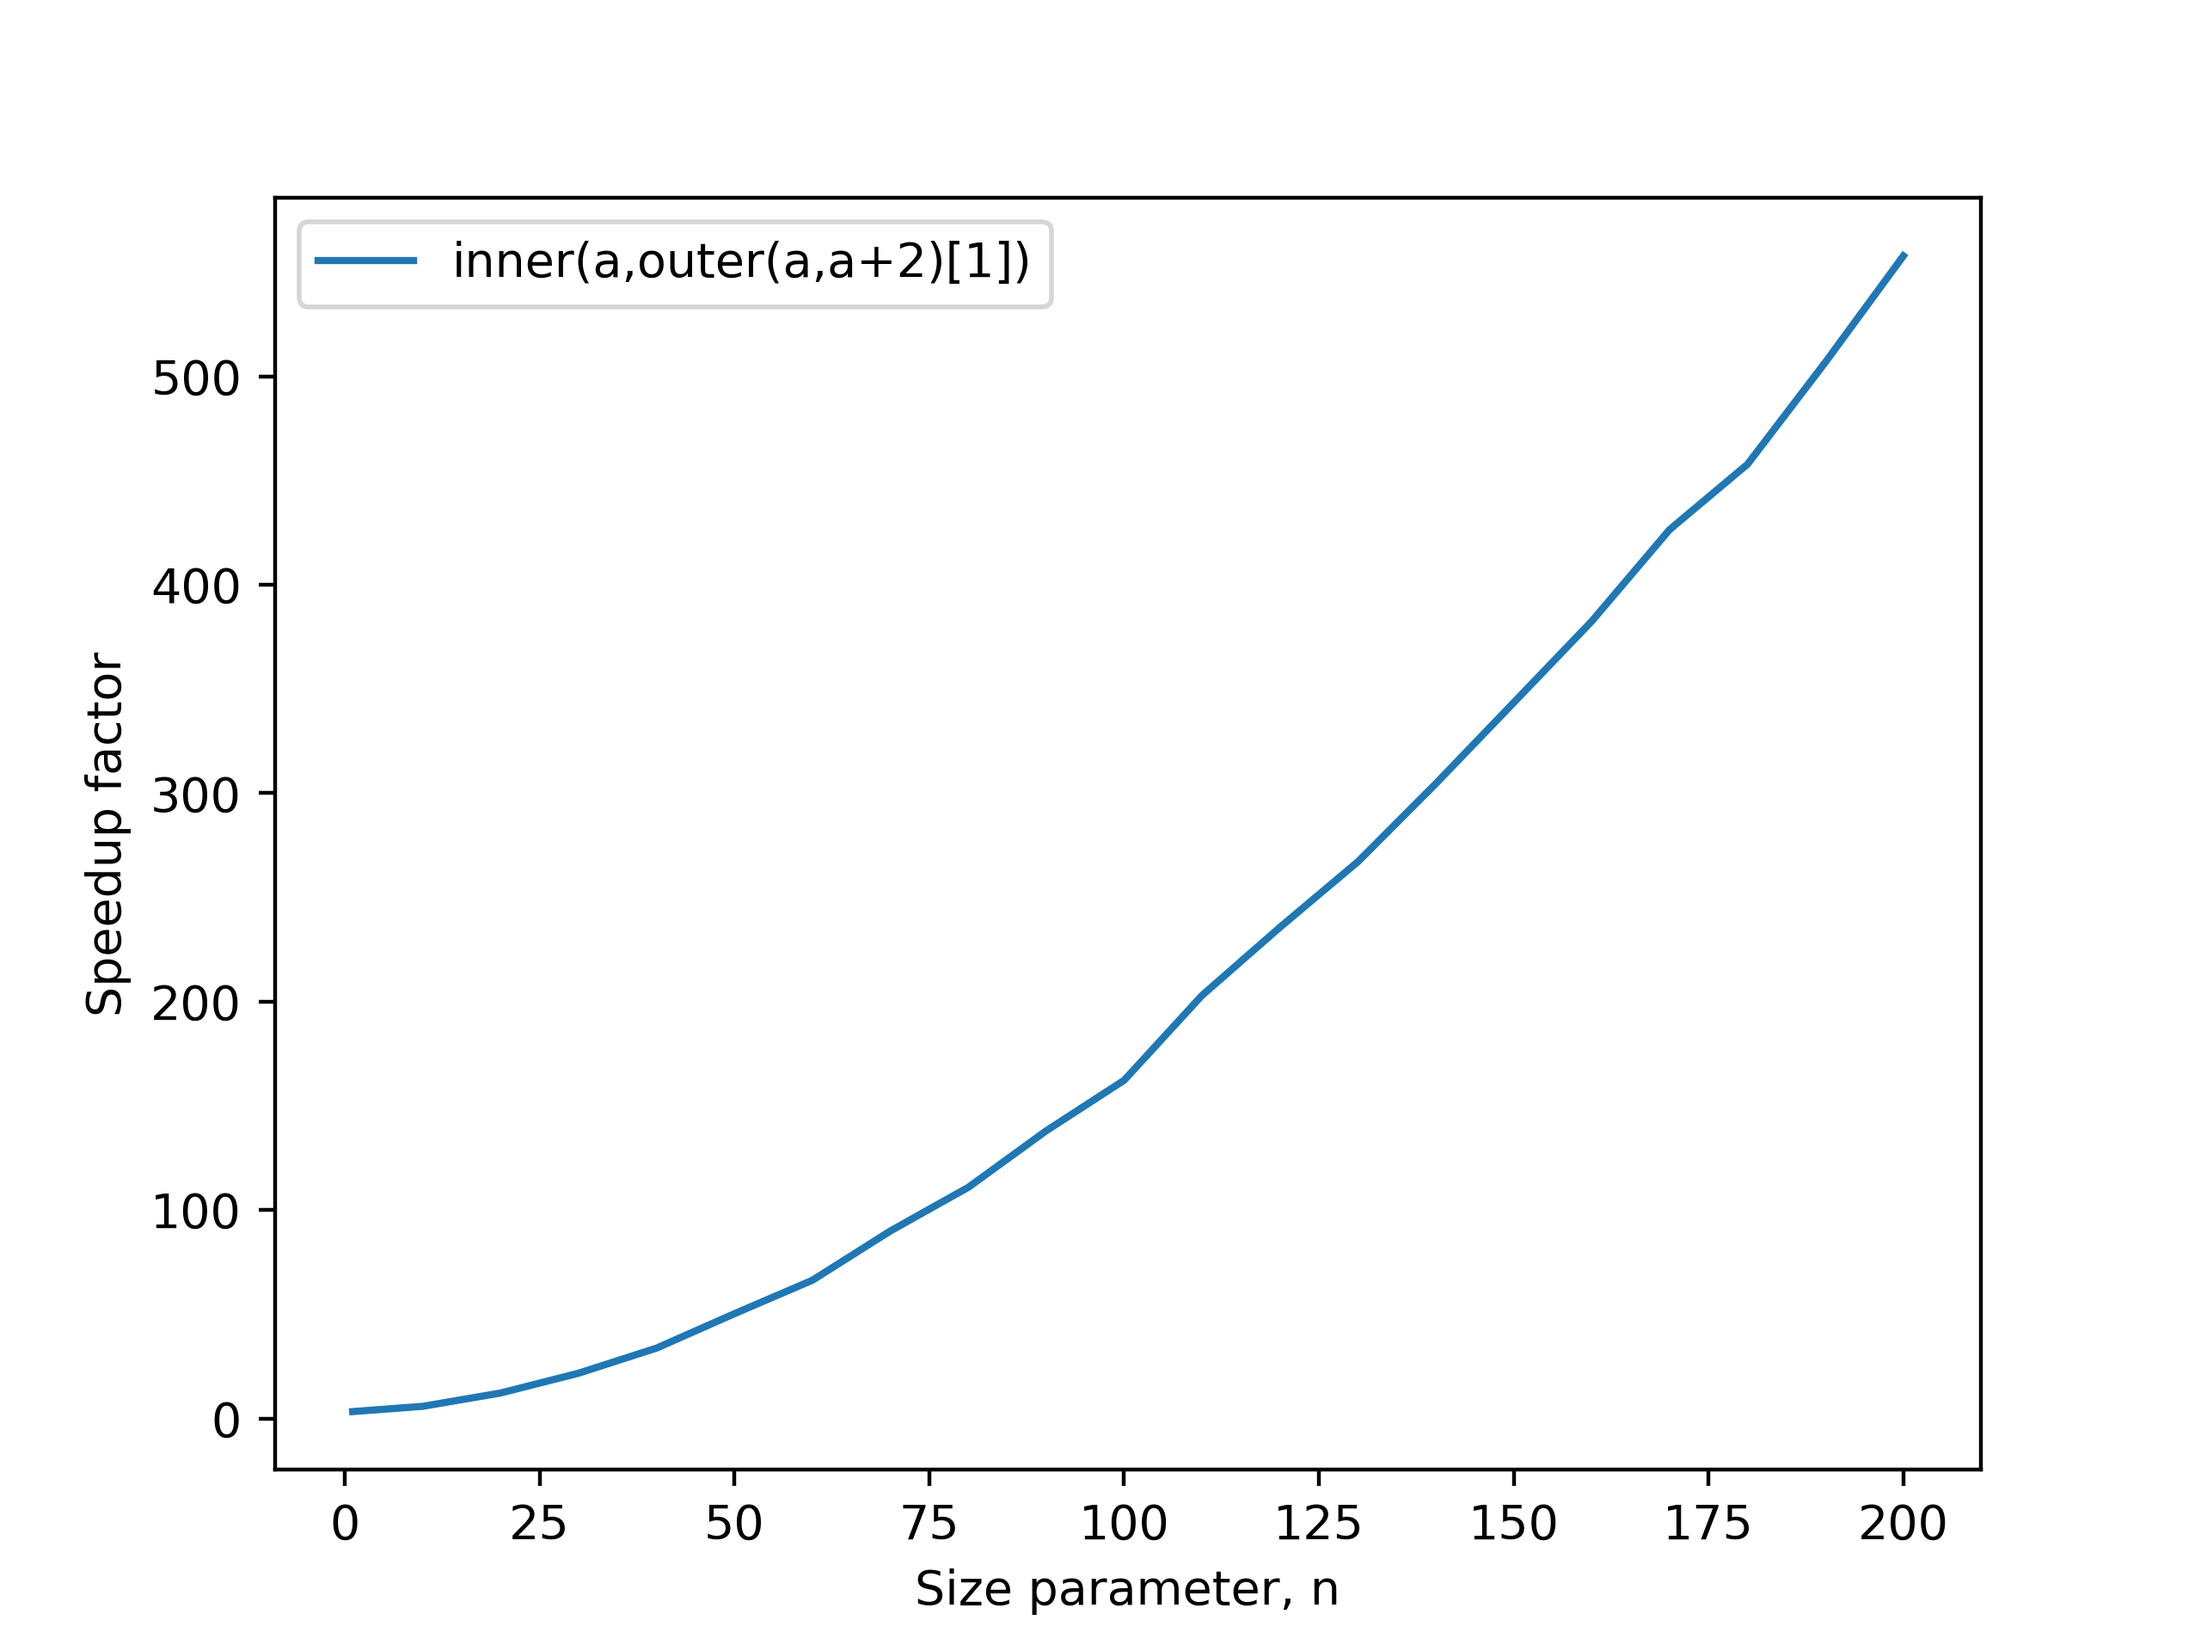
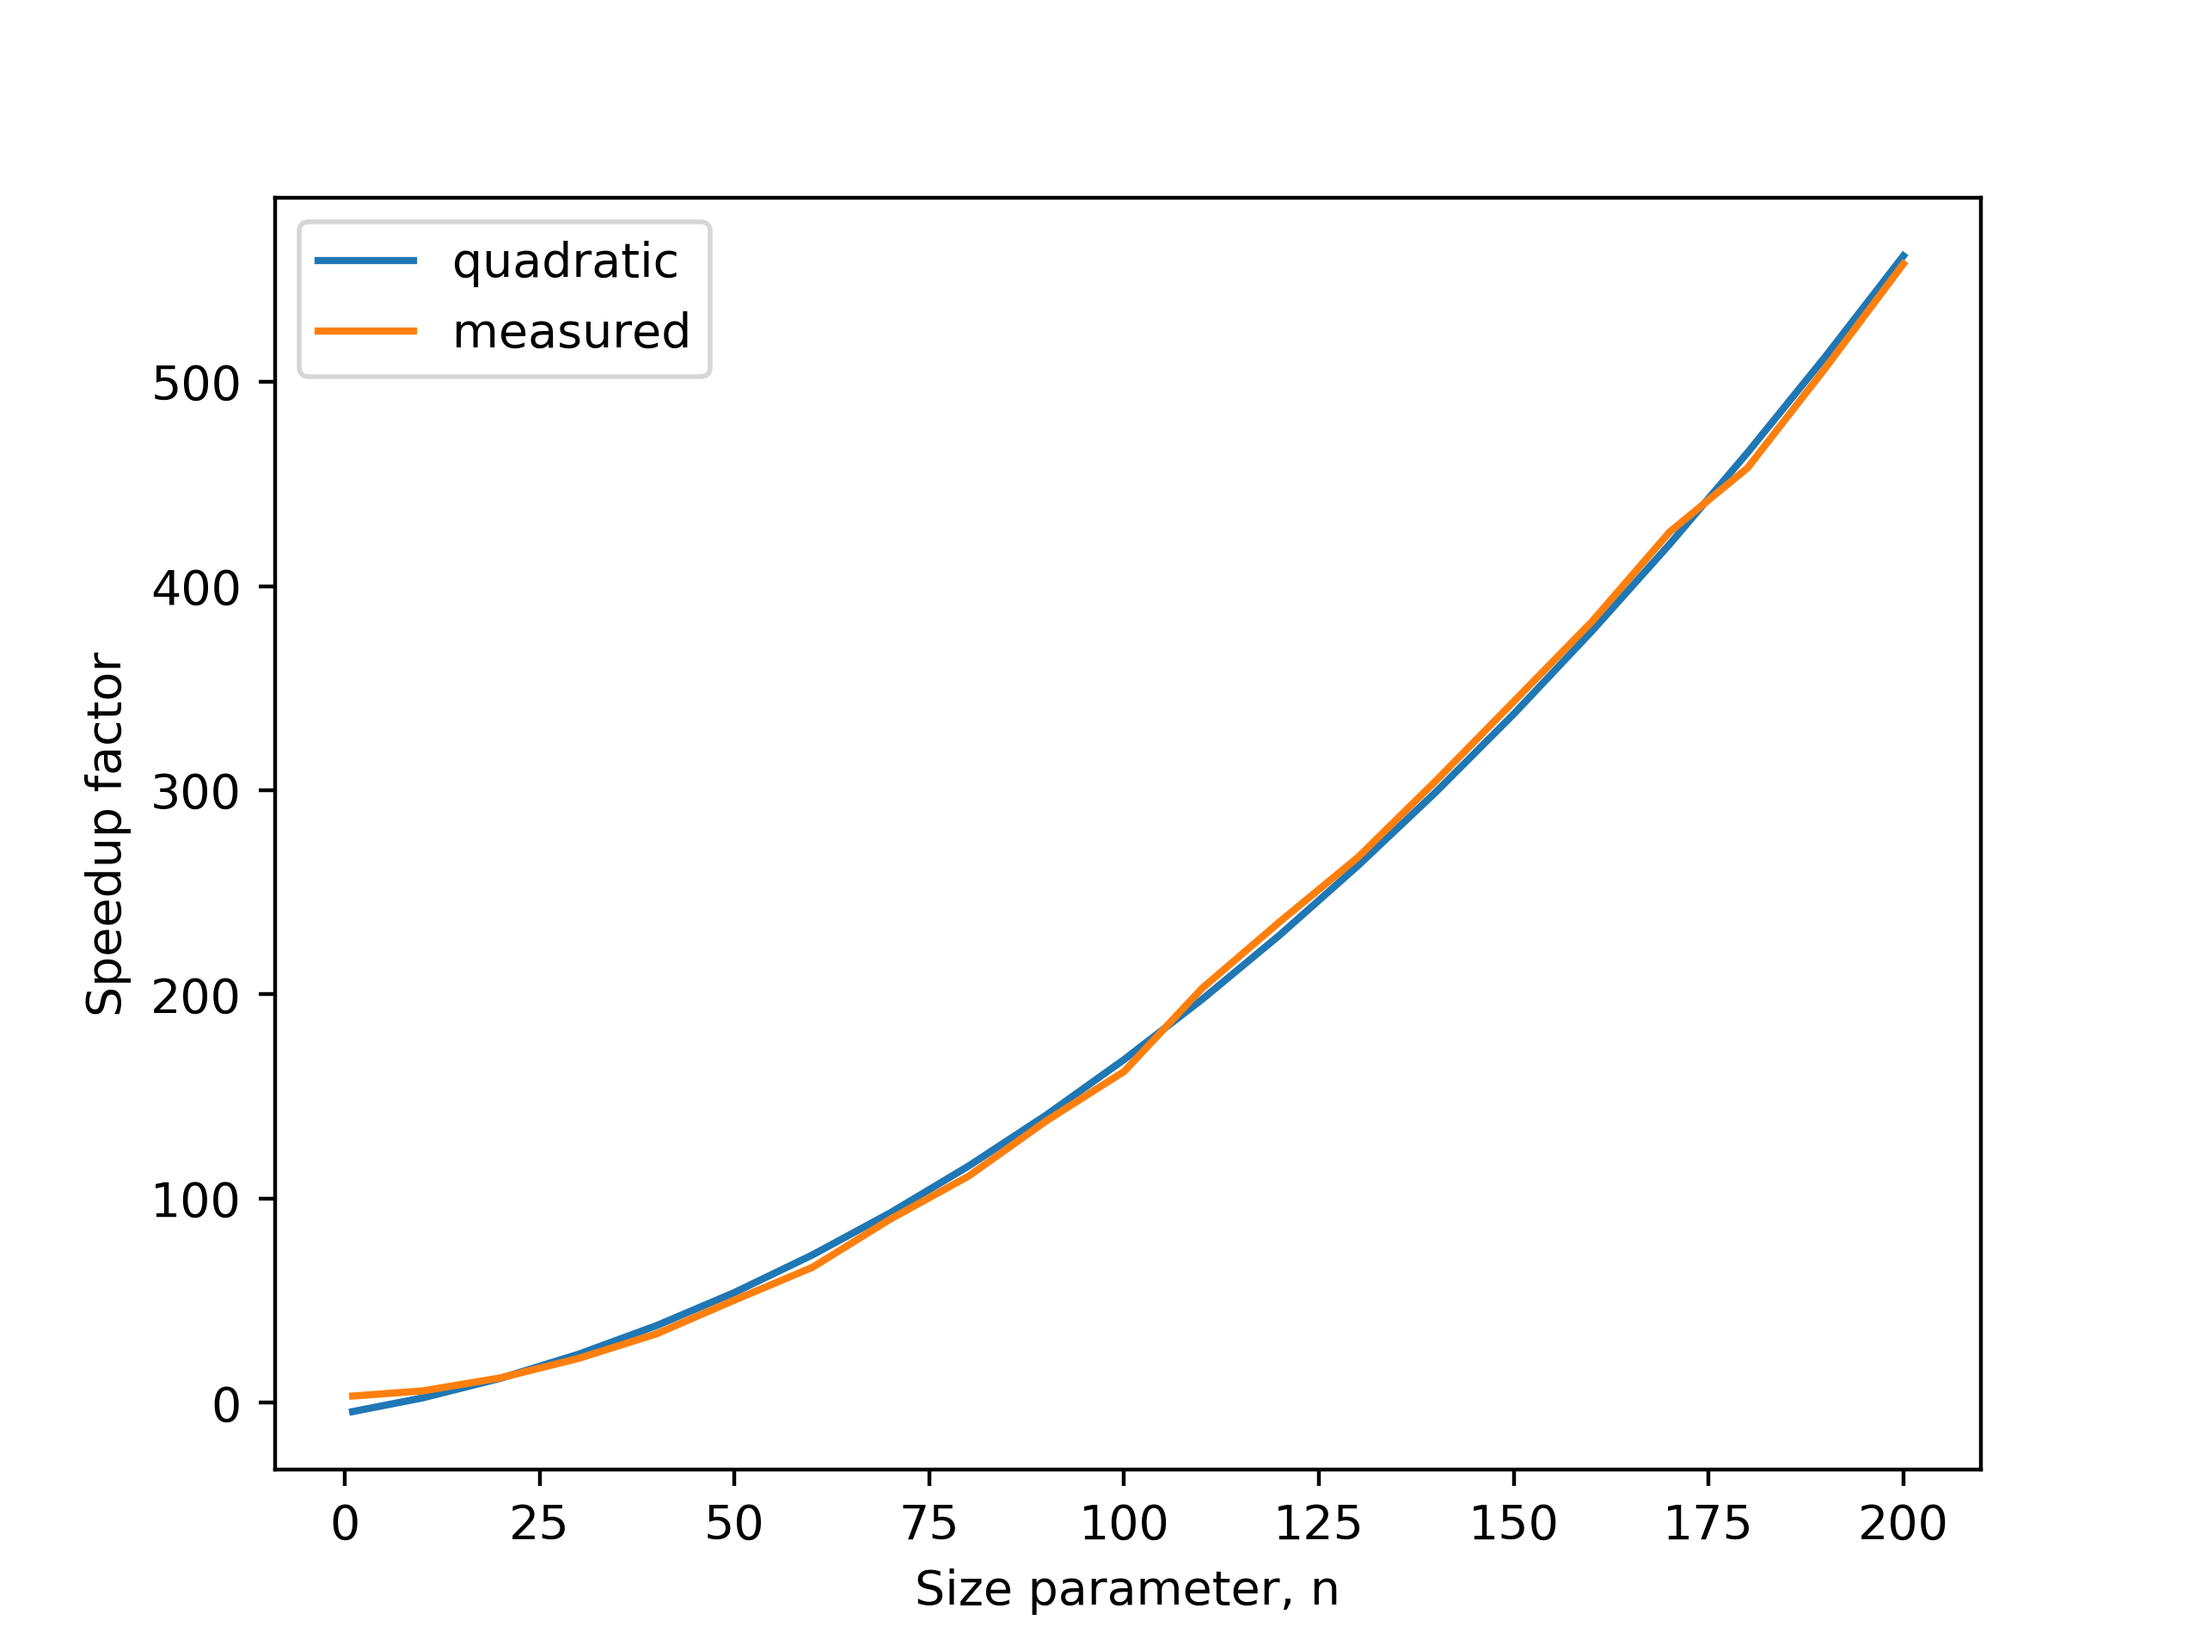
Fix speedup

diff --git a/benchmarks/analyze.py b/benchmarks/analyze.py
@@ -44,7 +44,7 @@ def get_data(d):
     return n, original_time, reduced_time
         
 def main():
-    l1 = 'inner(a,outer(a,a+2)[1])'
+    l1 = 'measured'
     l2 = 'inner(a,outer(a,a+2,out=cache)[1])'
     n1, ot1, rt1 = get_data('.')
     n2, ot2, rt2 = get_data('prealloc')
@@ -57,10 +57,10 @@ def main():
         'the number of arithmetic operations in reduced expression'
         return 5*n + 5*n-1 + 1.
 
-    #poly = np.polyfit(reduced_n, original_time/reduced_time, 2)
+    poly = np.polyfit(n1, ot1/rt1, 2)
     # Speedup plot.
     plt.figure()
-    #plt.plot(reduced_n, np.polyval(poly, reduced_n), label='quadratic')
+    plt.plot(n1, np.polyval(poly, n1), label='quadratic')
     if n1 is not None:
         plt.plot(n1, ot1/rt1, label=l1)
     if n2 is not None:
@@ -69,7 +69,7 @@ def main():
     plt.xlabel('Size parameter, n')
     plt.legend()
     plt.savefig('speedup.png', dpi=400)
-    plt.show()
+    # plt.show()
 
     # Timing plot
     plt.figure()
@@ -83,7 +83,7 @@ def main():
     plt.xlabel('Size parameter, n')
     plt.legend()
     plt.savefig('timing.png', dpi=400)
-    plt.show()
+    # plt.show()
     
 if __name__ == '__main__':
     main()
